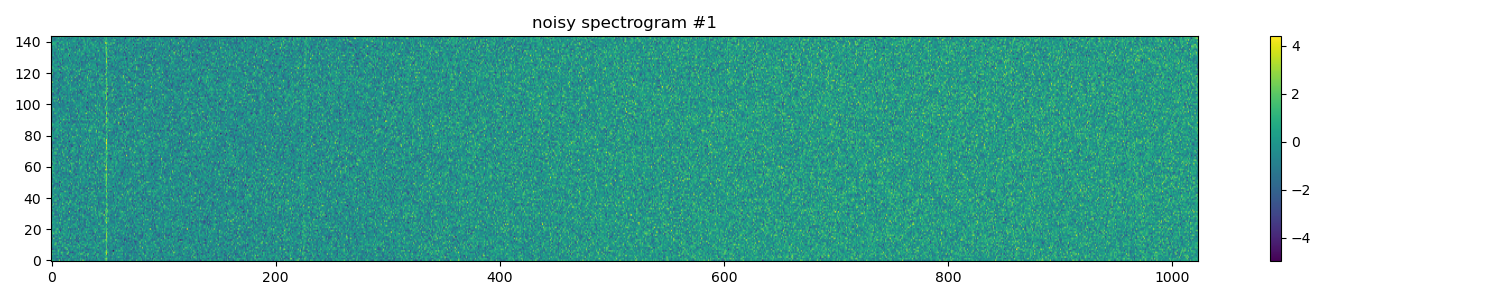
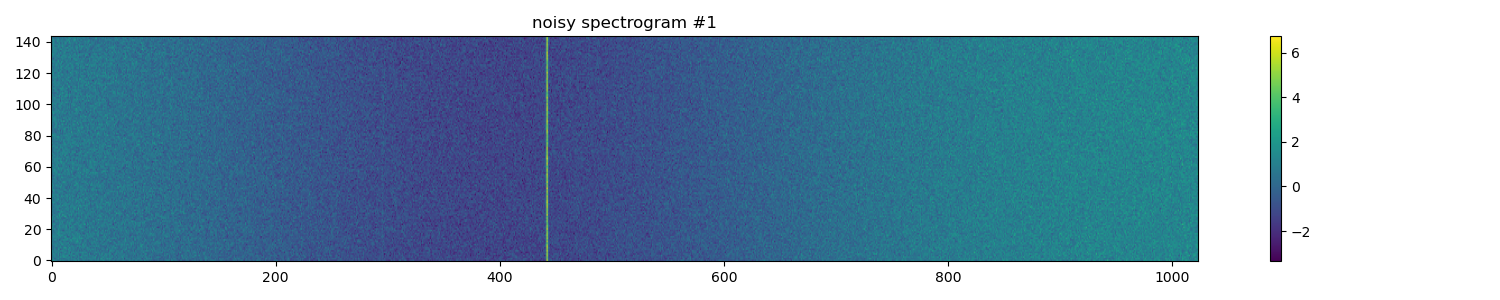
Adjust data conf

diff --git a/gen/SETIdataset.py b/gen/SETIdataset.py
@@ -71,7 +71,7 @@ class DynamicSpectrumDataset(Dataset):
         for i in range(n_signals):
             # 随机路径类型
             path_type = random.choices(['constant', 'sine', 'squared', 'rfi'],
-                                       weights=[0.35, 0.2, 0.35, 0.1])[0]
+                                       weights=[0.4, 0.2, 0.4, 0.])[0]
             # 默认信号参数
             margin = int(0.2 * self.fchans)
             # 随机漂移率，确保绝对值不低于 drift_min_abs
@@ -129,17 +129,17 @@ class DynamicSpectrumDataset(Dataset):
 
         # 随机 RFI 配置
         rfi_params = {
-            'NBC': np.random.randint(max(1, self.fchans // 128), self.fchans // 64),
-            'NBC_amp': np.random.uniform(1.25, 5),
-            'NBT': np.random.randint(max(1, self.tchans // 128), self.tchans // 64),
-            'NBT_amp': np.random.uniform(2.5, 5),
-            'BBT': np.random.randint(max(1, self.fchans // 512), self.fchans // 256),
-            'BBT_amp': np.random.uniform(1.25, 5),
-            'LowDrift': np.random.randint(1, 6),
-            'LowDrift_amp': np.random.uniform(1.25, 5),
+            'NBC': np.random.randint(1, self.fchans // 128),
+            'NBC_amp': np.random.uniform(1, 25),
+            'NBT': np.random.randint(1, self.tchans // 16),
+            'NBT_amp': np.random.uniform(1, 50),
+            'BBT': np.random.randint(0, self.fchans // 512),
+            'BBT_amp': np.random.uniform(1, 25),
+            'LowDrift': np.random.randint(1, 5),
+            'LowDrift_amp': np.random.uniform(1, 25),
             'LowDrift_width': np.random.uniform(7.5, 15),
-            'NegBand': np.random.randint(1, 2),
-            'NegBand_amp': np.random.uniform(0.25, 0.75),
+            'NegBand': np.random.randint(0, 2),
+            'NegBand_amp': np.random.uniform(0.5, 5),
             'NegBand_width': np.random.uniform(0.3e6, 0.7e6)
         }
 

diff --git a/main.py b/main.py
@@ -66,11 +66,11 @@ def main():
     drift_min_abs = df // (tchans * dt)
     train_dataset = DynamicSpectrumDataset(tchans=tchans, fchans=fchans, df=df, dt=dt, fch1=None, ascending=False,
                                            drift_min=drift_min, drift_max=drift_max, drift_min_abs=0.2,
-                                           snr_min=10.0, snr_max=20.0, width_min=10, width_max=15, num_signals=(0, 1),
+                                           snr_min=20.0, snr_max=30.0, width_min=10, width_max=30, num_signals=(0, 1),
                                            noise_std_min=0.025, noise_std_max=0.05)
     valid_dataset = DynamicSpectrumDataset(tchans=tchans, fchans=fchans, df=df, dt=dt, fch1=None, ascending=False,
                                            drift_min=drift_min, drift_max=drift_max, drift_min_abs=0.2,
-                                           snr_min=10.0, snr_max=20.0, width_min=10, width_max=15, num_signals=(0, 1),
+                                           snr_min=20.0, snr_max=30.0, width_min=10, width_max=30, num_signals=(0, 1),
                                            noise_std_min=0.025, noise_std_max=0.05)
 
     # Create data loaders

diff --git a/gen/SETIgen.py b/gen/SETIgen.py
@@ -13,6 +13,7 @@ except:
 import matplotlib.pyplot as plt
 from gen.FRIgen import add_rfi
 
+
 def sim_dynamic_spec_seti(fchans, tchans, df, dt, fch1=None, ascending=False,
                           signals=None,
                           noise_x_mean=0.0, noise_x_std=1.0, noise_type='normal',
@@ -254,12 +255,11 @@ def sim_dynamic_spec_seti(fchans, tchans, df, dt, fch1=None, ascending=False,
     signal_spec = frame.get_data(db=False)
 
     # 注入传统 RFI
-    if rfi_params:
+    if rfi_params and np.random.random() < 0.5:
         noisy_spec, traditional_rfi_mask = add_rfi(signal_spec, rfi_params)
         rfi_mask |= traditional_rfi_mask
     else:
         noisy_spec = signal_spec.copy()
-        rfi_mask = np.zeros_like(signal_spec, dtype=bool)
 
     # 可视化（可选）
     if plot:
@@ -296,6 +296,7 @@ def sim_dynamic_spec_seti(fchans, tchans, df, dt, fch1=None, ascending=False,
             plt.savefig(out_path, dpi=480)
             print(f"Plot saved to {out_path}")
     return signal_spec, clean_spec, noisy_spec, rfi_mask
+
 
 if __name__ == "__main__":
     import os
